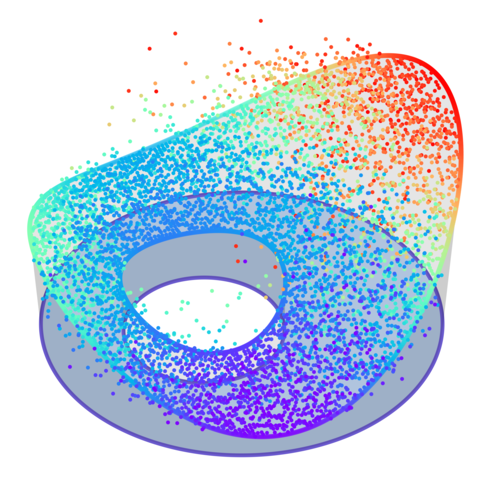
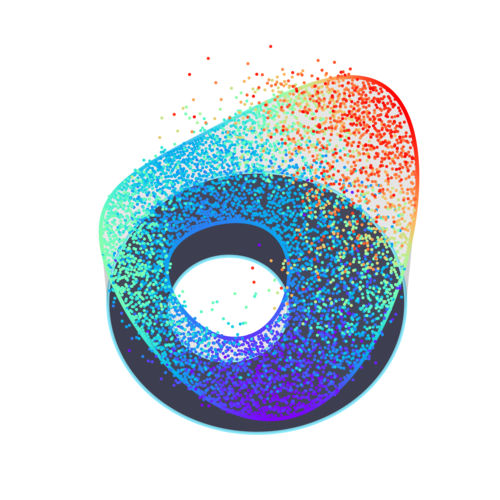
updating dplm plots

diff --git a/_posts/dirichlet_problem_local_martingales/dplm.py b/_posts/dirichlet_problem_local_martingales/dplm.py
@@ -6,6 +6,8 @@ from mpl_toolkits.mplot3d.art3d import Poly3DCollection
 import matplotlib.cm as cm
 from matplotlib.colors import Normalize
 
+plt.rcParams["text.usetex"] = True
+
 # drawing
 # --------------------------------------------------------------------
 
@@ -256,10 +258,10 @@ def plot_region_and_boundary_condition(n_draw_samples, dpi):
     ax = fig.add_subplot(111, projection='3d')
 
     # region
-    ax.add_collection3d(plt.fill_between(boundary_coords[:,0], boundary_coords[:,1], 0, color='lightsteelblue', linewidth=0, zorder=0))
+    ax.add_collection3d(plt.fill_between(boundary_coords[:,0], boundary_coords[:,1], 0, color="#44475a", linewidth=0, zorder=0))
 
     # region boundary
-    ax.scatter(boundary_coords[:,0], boundary_coords[:,1], color='slateblue', linewidth=0, s=5, zorder=4, alpha=1)
+    ax.scatter(boundary_coords[:,0], boundary_coords[:,1], color="#8be9fd", linewidth=0, s=5, zorder=4, alpha=1)
 
     # phi values
     cmap = cm.rainbow
@@ -272,9 +274,9 @@ def plot_region_and_boundary_condition(n_draw_samples, dpi):
     ax.add_collection3d(data_to_polygon(boundary_coords[n_draw_samples:,:], boundary_values[n_draw_samples:,:], 0, 'k', alpha=0.1))
 
     # text
-    ax.text(x=3.5, y=0, z=0, s='$U$', fontsize=20, zorder=6)
-    ax.text(x=4, y=-5, z=0, s='$\partial U$', fontsize=20, zorder=6)
-    ax.text(x=-1, y=8.5, z=2, s='$\phi(\partial U)$', fontsize=20, zorder=6)
+    ax.text(x=3.5, y=0, z=0, s='$U$', fontsize=20, zorder=6, color="white")
+    ax.text(x=4, y=-5, z=0, s='$\partial U$', fontsize=20, zorder=6, color="white")
+    ax.text(x=-1, y=8.5, z=2, s='$\phi(\partial U)$', fontsize=20, zorder=6, color="white")
 
     # axis limits
     ax.set_xlim([-4,6])
@@ -286,7 +288,7 @@ def plot_region_and_boundary_condition(n_draw_samples, dpi):
     ax.view_init(elev=50, azim=250)
 
     plt.tight_layout(pad=0)
-    plt.savefig("./boundary.png", dpi=dpi)
+    plt.savefig("./boundary.png", dpi=dpi, transparent=True)
 
     return
 
@@ -304,10 +306,10 @@ def plot_flat_bm_paths(n_draw_samples, timestep, total_time, dpi):
     ax = fig.add_subplot(111)
 
     # region
-    plt.fill_between(boundary_coords[:,0], boundary_coords[:,1], linewidth=0, color='lightsteelblue')
+    plt.fill_between(boundary_coords[:,0], boundary_coords[:,1], linewidth=0, color="#44475a")
 
     # boundary
-    ax.scatter(boundary_coords[:,0], boundary_coords[:,1], color='slateblue', linewidth=0, s=5, zorder=4, alpha=1)
+    ax.scatter(boundary_coords[:,0], boundary_coords[:,1], color="#8be9fd", linewidth=0, s=5, zorder=4, alpha=1)
 
     # start value
     xy = [3,0]
@@ -324,7 +326,7 @@ def plot_flat_bm_paths(n_draw_samples, timestep, total_time, dpi):
     terminal_values = terminal_values_stopped_bms(stopped_bms)
 
     for i in range(n_paths):
-        col = ['red','green'][i]
+        col = ["#ff79c6","#50fa7b"][i]
 
         # terminal values
         ax.plot(terminal_xys[i,0], terminal_xys[i,1], '-o', markersize=5, zorder=8, linewidth=2, color=col)
@@ -335,7 +337,7 @@ def plot_flat_bm_paths(n_draw_samples, timestep, total_time, dpi):
     # save
     plt.axis('off')
     plt.tight_layout(pad=0)
-    plt.savefig("./flat.png", dpi=dpi)
+    plt.savefig("./flat.png", dpi=dpi, transparent=True)
 
 
 def plot_few_bm_paths(n_draw_samples, timestep, total_time, dpi):
@@ -351,14 +353,14 @@ def plot_few_bm_paths(n_draw_samples, timestep, total_time, dpi):
     ax = fig.add_subplot(111, projection='3d')
 
     # region
-    ax.add_collection3d(plt.fill_between(boundary_coords[:,0], boundary_coords[:,1], 0, color='lightsteelblue', linewidth=0))
+    ax.add_collection3d(plt.fill_between(boundary_coords[:,0], boundary_coords[:,1], 0, color="#44475a", linewidth=0))
 
     # vertical shading
     ax.add_collection3d(data_to_polygon(boundary_coords[0:n_draw_samples,:], boundary_values[0:n_draw_samples], 0, 'k', alpha = 0.1))
     ax.add_collection3d(data_to_polygon(boundary_coords[n_draw_samples:,:], boundary_values[n_draw_samples:,:], 0, 'k', alpha = 0.1))
 
     # region boundary
-    ax.scatter(boundary_coords[:,0], boundary_coords[:,1], color='slateblue', linewidth=0, s=5, zorder=4, alpha=1)
+    ax.scatter(boundary_coords[:,0], boundary_coords[:,1], color="#8be9fd", linewidth=0, s=5, zorder=4, alpha=1)
 
     # phi values
     cmap = cm.rainbow
@@ -381,7 +383,7 @@ def plot_few_bm_paths(n_draw_samples, timestep, total_time, dpi):
     terminal_values = terminal_values_stopped_bms(stopped_bms)
 
     for i in range(n_paths):
-        col = ['red','green'][i]
+        col = ["#ff79c6","#50fa7b"][i]
 
         # terminal values
         ax.plot(2*[terminal_xys[i,0]], 2*[terminal_xys[i,1]], [0, terminal_values[i]], '-o', markersize=5, zorder=8, linewidth=2, color=col)
@@ -399,7 +401,7 @@ def plot_few_bm_paths(n_draw_samples, timestep, total_time, dpi):
     ax.view_init(elev=60, azim=250)
 
     plt.tight_layout(pad=0)
-    plt.savefig("./paths.png", dpi=dpi)
+    plt.savefig("./paths.png", dpi=dpi, transparent=True)
 
     return
 
@@ -420,14 +422,14 @@ def plot_final_surface(n_monte_carlo, timestep, fidelity, total_time, n_draw_sam
     ax = fig.add_subplot(111, projection='3d')
 
     # region
-    ax.add_collection3d(plt.fill_between(boundary_coords[:,0], boundary_coords[:,1], 0, color='lightsteelblue', linewidth=0))
+    ax.add_collection3d(plt.fill_between(boundary_coords[:,0], boundary_coords[:,1], 0, color="#44475a", linewidth=0))
 
     # vertical shading
     ax.add_collection3d(data_to_polygon(boundary_coords[0:n_draw_samples,:], boundary_values[0:n_draw_samples], 0, 'k', alpha = 0.1))
     ax.add_collection3d(data_to_polygon(boundary_coords[n_draw_samples:,:], boundary_values[n_draw_samples:,:], 0, 'k', alpha = 0.1))
 
     # region boundary
-    ax.scatter(boundary_coords[:,0], boundary_coords[:,1], color='slateblue', linewidth=0, s=5, zorder=4, alpha=1)
+    ax.scatter(boundary_coords[:,0], boundary_coords[:,1], color="#8be9fd", linewidth=0, s=5, zorder=4, alpha=1)
 
     # phi values
     cmap = cm.rainbow
@@ -451,6 +453,6 @@ def plot_final_surface(n_monte_carlo, timestep, fidelity, total_time, n_draw_sam
     ax.view_init(elev=60, azim=250)
 
     plt.tight_layout(pad=0)
-    plt.savefig("./surf_M{}_f{}.png".format(n_monte_carlo, int(100*fidelity)), dpi=dpi)
+    plt.savefig("./surf_M{}_f{}.png".format(n_monte_carlo, int(100*fidelity)), dpi=dpi, transparent=True)
 
     return

diff --git a/_posts/dirichlet_problem_local_martingales/script.py b/_posts/dirichlet_problem_local_martingales/script.py
@@ -7,19 +7,19 @@ total_time = 100
 print("plot region")
 dplm.plot_region(n_draw_samples, dpi)
 
-#print("plot region and boundary condition")
-#dplm.plot_region_and_boundary_condition(n_draw_samples, dpi)
+print("plot region and boundary condition")
+dplm.plot_region_and_boundary_condition(n_draw_samples, dpi)
 
-#print("plot flat bm paths")
-#timestep = 0.001
-#dplm.plot_flat_bm_paths(n_draw_samples, timestep, total_time, dpi)
+print("plot flat bm paths")
+timestep = 0.001
+dplm.plot_flat_bm_paths(n_draw_samples, timestep, total_time, dpi)
 
-#print("plot few bm paths")
-#dplm.plot_few_bm_paths(n_draw_samples, timestep, total_time, dpi)
+print("plot few bm paths")
+dplm.plot_few_bm_paths(n_draw_samples, timestep, total_time, dpi)
 
-#print("plot final surfaces")
-#timestep = 0.1
-#for n_monte_carlo in [1,30]:
-    #for fidelity in [0.2,0.1]:
-        #print("\tMonte Carlo: {}, fidelity: {}".format(n_monte_carlo,fidelity))
-        #dplm.plot_final_surface(n_monte_carlo, timestep, fidelity, total_time, n_draw_samples, dpi)
+print("plot final surfaces")
+timestep = 0.1
+for n_monte_carlo in [1,30]:
+    for fidelity in [0.2,0.1]:
+        print("\tMonte Carlo: {}, fidelity: {}".format(n_monte_carlo,fidelity))
+        dplm.plot_final_surface(n_monte_carlo, timestep, fidelity, total_time, n_draw_samples, dpi)
